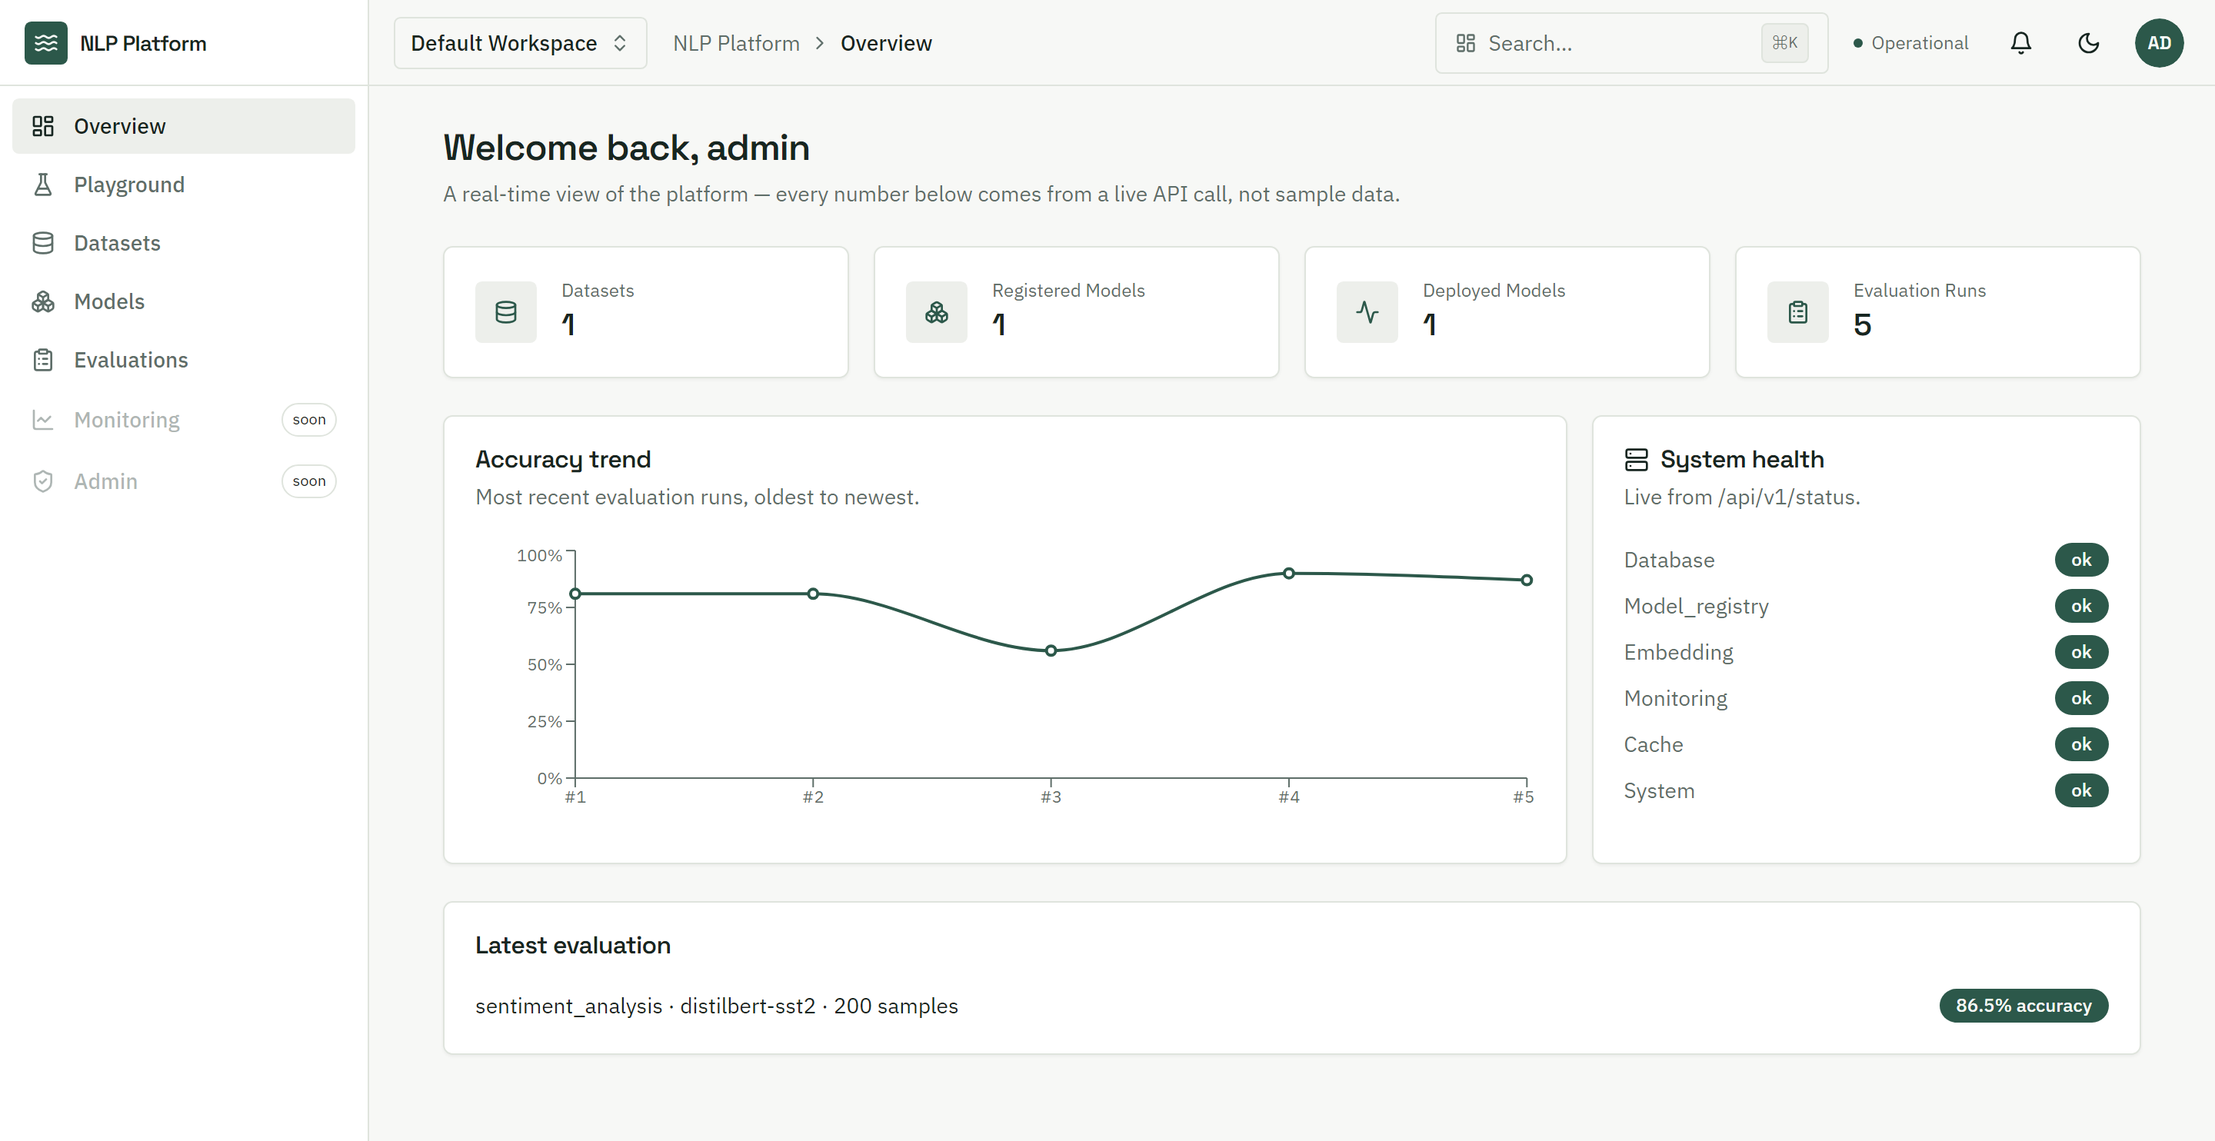
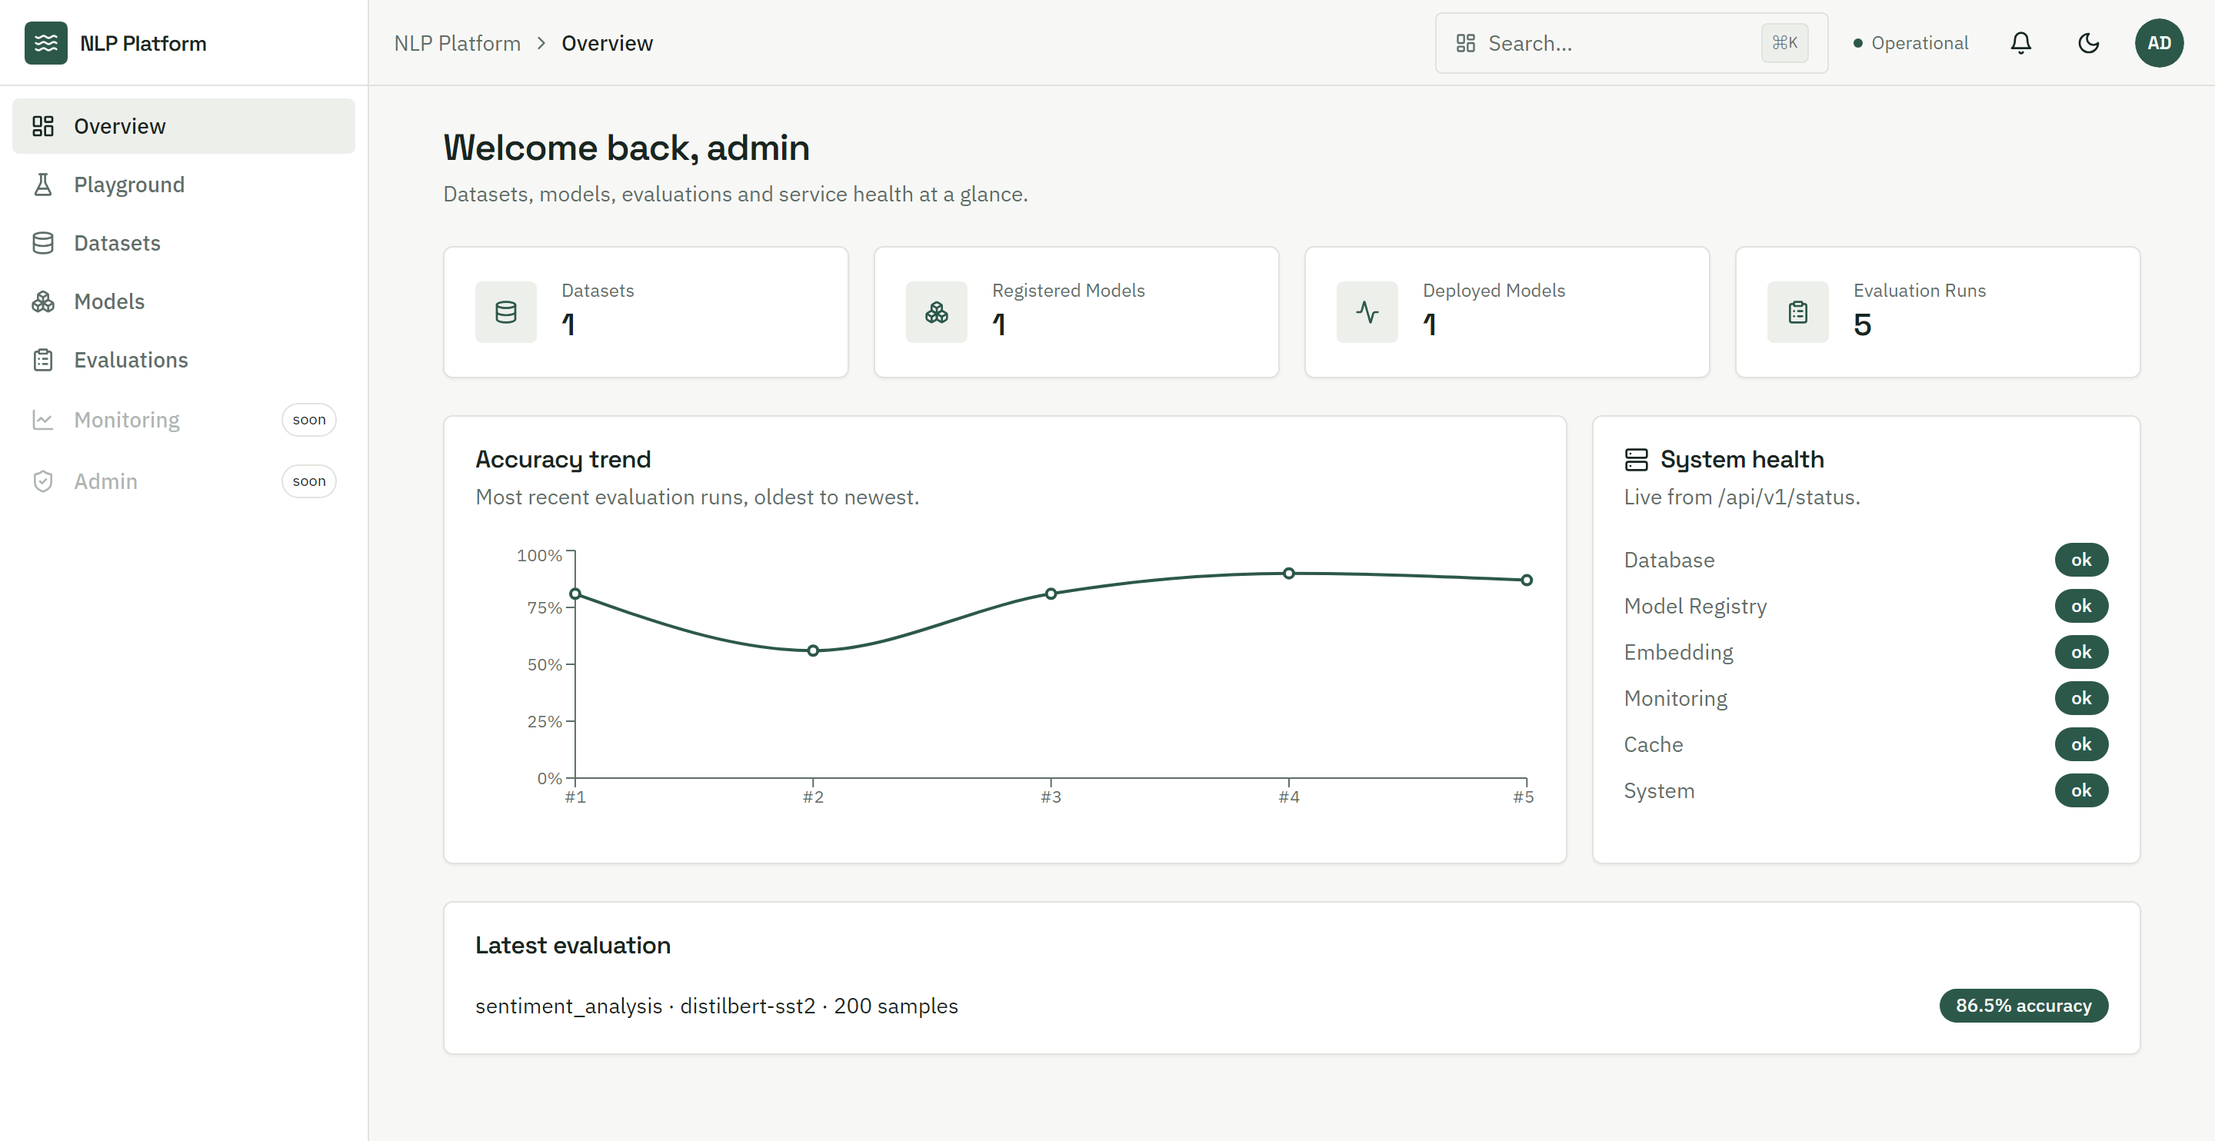
docs: README with measured results, screenshots and error analysis; UI polish
- README results tables generated from reports/ and benchmarks/, error
  analysis highlights, screenshot gallery captured from the live stack
- Inference latency excludes first-use model loading
- Evaluations: readable eval-set names, calibration chart legend
- Dashboard: readable health-check names; removed the dead workspace
  selector
- scripts/seed_demo.py fills a fresh instance through the public API

diff --git a/frontend/src/pages/EvaluationsPage.tsx b/frontend/src/pages/EvaluationsPage.tsx
@@ -25,9 +25,14 @@ const EVALUABLE_TASKS: NLPTask[] = [
 ];
 
 const BUILTIN_SETS = {
-  challenge_set: "Challenge set — 48 hard cases (negation, sarcasm)",
-  sst2_validation: "SST-2 validation — 872 sentences",
+  challenge_set: "Challenge set (48 hard cases)",
+  sst2_validation: "SST-2 validation (872)",
 } as const;
+
+export function evalSetLabel(evalSet: string): string {
+  if (evalSet in BUILTIN_SETS) return BUILTIN_SETS[evalSet as keyof typeof BUILTIN_SETS];
+  return evalSet.startsWith("dataset:") ? `Dataset: ${evalSet.slice("dataset:".length)}` : evalSet;
+}
 
 export function EvaluationsPage() {
   const [source, setSource] = useState<string>("challenge_set");
@@ -145,7 +150,7 @@ export function EvaluationsPage() {
                       </Link>
                     </TableCell>
                     <TableCell className="font-mono text-xs text-muted-foreground">{run.model_name}</TableCell>
-                    <TableCell className="text-xs">{run.eval_set}</TableCell>
+                    <TableCell className="text-xs">{evalSetLabel(run.eval_set)}</TableCell>
                     <TableCell>
                       <Badge variant={run.accuracy >= 0.8 ? "default" : run.accuracy >= 0.6 ? "secondary" : "destructive"}>
                         {(run.accuracy * 100).toFixed(1)}%

diff --git a/frontend/src/pages/EvaluationDetailPage.tsx b/frontend/src/pages/EvaluationDetailPage.tsx
@@ -1,6 +1,6 @@
 import { Fragment } from "react";
 import { useParams } from "react-router-dom";
-import { Bar, BarChart, CartesianGrid, ResponsiveContainer, Tooltip, XAxis, YAxis } from "recharts";
+import { Bar, BarChart, CartesianGrid, Legend, ResponsiveContainer, Tooltip, XAxis, YAxis } from "recharts";
 import { Download, FileText } from "lucide-react";
 import { Button } from "@/components/ui/button";
 import { Badge } from "@/components/ui/badge";
@@ -146,6 +146,7 @@ export function EvaluationDetailPage() {
                   <XAxis dataKey="bucket" tick={{ fontSize: 10 }} stroke="hsl(var(--muted-foreground))" />
                   <YAxis tick={{ fontSize: 11 }} unit="%" stroke="hsl(var(--muted-foreground))" />
                   <Tooltip contentStyle={{ background: "hsl(var(--popover))", border: "1px solid hsl(var(--border))", fontSize: 12 }} />
+                  <Legend iconType="square" iconSize={10} wrapperStyle={{ fontSize: 11 }} />
                   <Bar dataKey="confidence" fill="hsl(var(--muted-foreground))" radius={[3, 3, 0, 0]} name="Avg confidence" />
                   <Bar dataKey="accuracy" fill="hsl(var(--primary))" radius={[3, 3, 0, 0]} name="Actual accuracy" />
                 </BarChart>

diff --git a/frontend/src/pages/DashboardPage.tsx b/frontend/src/pages/DashboardPage.tsx
@@ -73,7 +73,7 @@ export function DashboardPage() {
           Welcome back{user?.username ? `, ${user.username}` : ""}
         </h1>
         <p className="mt-1 text-sm text-muted-foreground">
-          A real-time view of the platform — every number below comes from a live API call, not sample data.
+          Datasets, models, evaluations and service health at a glance.
         </p>
       </div>
 
@@ -151,7 +151,7 @@ export function DashboardPage() {
             ) : (
               Object.entries(status.data?.checks ?? {}).map(([name, check]) => (
                 <div key={name} className="flex items-center justify-between text-sm">
-                  <span className="capitalize text-muted-foreground">{name}</span>
+                  <span className="capitalize text-muted-foreground">{name.replace(/_/g, " ")}</span>
                   <Badge variant={check.status === "ok" ? "default" : check.status === "not_implemented" ? "outline" : "destructive"}>
                     {check.status}
                   </Badge>

diff --git a/frontend/src/components/layout/TopNav.tsx b/frontend/src/components/layout/TopNav.tsx
@@ -3,14 +3,12 @@ import { GlobalSearchTrigger } from "@/components/layout/CommandPalette";
 import { SystemStatus } from "@/components/layout/SystemStatus";
 import { NotificationCenter } from "@/components/layout/NotificationCenter";
 import { ThemeToggle } from "@/components/layout/ThemeToggle";
-import { WorkspaceSelector } from "@/components/layout/WorkspaceSelector";
 import { UserMenu } from "@/components/layout/UserMenu";
 
 export function TopNav() {
   return (
     <header className="flex h-14 items-center justify-between gap-4 border-b border-border bg-background px-4">
       <div className="flex items-center gap-4">
-        <WorkspaceSelector />
         <Breadcrumbs />
       </div>
 

diff --git a/scripts/seed_demo.py b/scripts/seed_demo.py
@@ -1,0 +1,92 @@
+"""
+Populate a running instance with demo content through the public API:
+evaluation runs (served model vs lexicon baseline, on the challenge set and
+SST-2 validation), a registered + approved + deployed model, and an uploaded
+dataset evaluated by the served model.
+
+    uvicorn backend.main:app --port 8000
+    python scripts/seed_demo.py
+
+Uses the dev-seeded admin account by default.
+"""
+
+import argparse
+import csv
+import io
+
+import httpx
+
+
+def main() -> None:
+    parser = argparse.ArgumentParser()
+    parser.add_argument("--base-url", default="http://127.0.0.1:8000/api/v1")
+    parser.add_argument("--username", default="admin")
+    parser.add_argument("--password", default="ChangeMe123!")
+    parser.add_argument("--dataset-rows", type=int, default=200)
+    args = parser.parse_args()
+
+    login = httpx.post(f"{args.base_url}/auth/login", json={"username": args.username, "password": args.password})
+    login.raise_for_status()
+    api = httpx.Client(
+        base_url=args.base_url,
+        headers={"Authorization": f"Bearer {login.json()['access_token']}"},
+        timeout=600,
+    )
+
+    def post(path: str, **kwargs) -> dict:
+        response = api.post(path, **kwargs)
+        response.raise_for_status()
+        return response.json()
+
+    runs = {}
+    for model in ("lexicon_baseline", "served"):
+        for eval_set in ("challenge_set", "sst2_validation"):
+            run = post("/evaluation/run", json={"task": "sentiment_analysis", "model": model, "eval_set": eval_set})
+            runs[(model, eval_set)] = run
+            print(f"eval  {run['model_name']:<22} {eval_set:<16} acc={run['accuracy']:.4f} ece={run.get('ece')}")
+
+    served = runs[("served", "sst2_validation")]
+    entry = post(
+        "/models",
+        json={
+            "name": served["model_name"],
+            "task": "sentiment_analysis",
+            "architecture": "distilbert",
+            "version": "1.0.0",
+            "model_name_or_path": served["model_name"],
+            "evaluation_run_id": served["run_id"],
+            "notes": f"SST-2 validation accuracy {served['accuracy']:.2%}.",
+        },
+    )
+    post(f"/models/{entry['id']}/approve")
+    post(f"/models/{entry['id']}/promote", json={"stage": "production"})
+    post(f"/models/{entry['id']}/deploy")
+    post(f"/models/{entry['id']}/set-champion")
+    print(f"model {entry['name']} registered -> approved -> production -> deployed -> champion")
+
+    from datasets import load_dataset
+
+    split = load_dataset("stanfordnlp/sst2", split="validation").shuffle(seed=7).select(range(args.dataset_rows))
+    names = split.features["label"].names
+    buffer = io.StringIO()
+    writer = csv.writer(buffer)
+    writer.writerow(["text", "label"])
+    for row in split:
+        writer.writerow([row["sentence"].strip(), names[row["label"]].upper()])
+
+    dataset = post(
+        "/datasets",
+        json={
+            "name": "movie-reviews-sample",
+            "task": "sentiment_analysis",
+            "description": f"{args.dataset_rows} sentences sampled from SST-2 validation",
+            "label_set": ["NEGATIVE", "POSITIVE"],
+        },
+    )
+    post(f"/datasets/{dataset['id']}/upload", files={"file": ("movie_reviews.csv", buffer.getvalue(), "text/csv")})
+    run = post("/evaluation/run", json={"task": "sentiment_analysis", "dataset_id": dataset["id"]})
+    print(f"data  {dataset['name']} ({args.dataset_rows} rows) acc={run['accuracy']:.4f}")
+
+
+if __name__ == "__main__":
+    main()

diff --git a/backend/services/inference_service.py b/backend/services/inference_service.py
@@ -41,6 +41,9 @@ class InferenceService(BaseService):
         plugin = get_task_plugin(task)
         resolved_name = model_name or plugin.default_model_name
         model = model_factory.get_model(plugin.default_architecture, resolved_name, task=task)
+        # Load (or download) weights before any timer starts: reported latency
+        # and the metrics registry should reflect inference, not a one-off load.
+        model.load()
         return model, display_model_name(resolved_name)
 
     def _timed(self, task: NLPTask, model_name: str, fn):

diff --git a/scripts/capture_screenshots.py b/scripts/capture_screenshots.py
@@ -85,7 +85,7 @@ def main() -> None:
         pick_task(page, "Toxicity Detection")
         page.fill("textarea", "Shut up, you worthless idiot. Nobody wants you here.")
         page.get_by_role("button", name="Run prediction").click()
-        page.wait_for_selector("text=multi-label", timeout=120_000)
+        page.wait_for_selector("text=every label above 50%", timeout=120_000)
         page.wait_for_timeout(600)
         snap(page, "playground-toxicity")
 

diff --git a/README.md b/README.md
@@ -2,9 +2,9 @@
 
 A full-stack platform for serving, evaluating and explaining transformer NLP models.
 It serves 8 tasks with real Hugging Face models, including a DistilBERT sentiment model
-fine-tuned here on SST-2. Every prediction can be explained with Integrated Gradients,
-and every model is scored against a baseline on held-out data, all behind an
-authenticated, role-based API with a React UI.
+fine-tuned here on SST-2. Classifier predictions can be explained word by word with
+Integrated Gradients, and any single-label model can be scored on held-out or uploaded
+data, all behind an authenticated, role-based API with a React UI.
 
 ![Playground: prediction with Integrated Gradients explanation](docs/images/playground-explain.png)
 
@@ -27,14 +27,50 @@ Sources, licenses and known failure modes for each model are in [docs/model-card
 
 **Sentiment, SST-2 validation (872 sentences) and the 48-sentence challenge set** (negation, sarcasm, mixed sentiment):
 
-RESULTS_TABLE
+| System | SST-2 accuracy | SST-2 macro-F1 | Challenge set accuracy |
+|---|---|---|---|
+| Lexicon baseline (bag-of-words + negation) | 55.73% | 0.444 | 81.25% |
+| DistilBERT, public SST-2 checkpoint | 91.06% | 0.910 | 87.50% |
+| **DistilBERT, fine-tuned here** | 90.37% | 0.903 | 81.25% |
+
+Our model also has ROC-AUC 0.970 and calibration error (ECE) 0.045 on SST-2. It was trained
+for one epoch on the full 67k-sentence train split, on a laptop CPU in 92 minutes.
+
+**What the numbers say:**
+- The lexicon baseline is near chance on real text (55.7%), and both transformers clear 90%.
+- The challenge set flatters the baseline because it was written alongside the lexicon's
+  word lists. It's a diagnostic, not a benchmark.
+- **Sarcasm is the shared blind spot.** "Love how it stopped working after just two days.
+  Fantastic." is POSITIVE at 0.99 confidence for both transformers. Per-sentence breakdown:
+  [reports/sentiment_error_analysis.md](reports/sentiment_error_analysis.md).
 
 **CPU inference, FP32 vs dynamic INT8 quantization:**
 
-BENCHMARK_TABLE
+| Variant | Size | p50 latency, batch 1 | Throughput, batch 32 | SST-2 accuracy |
+|---|---|---|---|---|
+| fp32 | 268 MB | 18.5 ms | 42 texts/s | 90.37% |
+| int8-dynamic | 139 MB | 23.7 ms | 123 texts/s | 88.99% |
+
+INT8 halves the model and roughly triples batch throughput for −1.4 accuracy points, but it's
+*slower* for single texts, because quantizing activations on the fly costs more than it saves
+on tiny inputs. Use it for batch jobs and keep FP32 for interactive latency. Medians of 5
+alternating rounds on an Intel Core Ultra 9 185H laptop.
+
+**Served end to end** (`scripts/load_test.py`, one uvicorn worker): `POST /predict` sentiment at
+**17.8 ms p50 / 55 req/s**. The first load test measured 165 ms because of a `gc.collect()`
+on every model lookup. Finding and fixing that is written up in the
+[testing guide](docs/testing-and-qa-guide.md#load-testing-scriptsload_testpy).
 
 Reproduce with `python scripts/evaluate_sentiment.py` and `python scripts/benchmark_inference.py`.
 Raw numbers are in [reports/](reports/) and [benchmarks/](benchmarks/).
+
+## Screenshots
+
+| Evaluation run: confusion matrix, calibration, misclassified samples | Multi-label toxicity |
+|---|---|
+| ![Evaluation detail](docs/images/evaluation-detail.png) | ![Toxicity](docs/images/playground-toxicity.png) |
+| **Zero-shot with labels chosen per request** | **Model vs baseline across datasets** |
+| ![Zero-shot](docs/images/playground-zero-shot.png) | ![Evaluations](docs/images/evaluations.png) |
 
 ## Architecture
 
@@ -75,8 +111,11 @@ Details: [docs/architecture-guide.md](docs/architecture-guide.md).
 - **Supply chain**: `pip-audit` reports 0 known vulnerabilities after migrating
   python-jose → PyJWT and upgrading FastAPI/Starlette; frontend production dependencies
   report 0 too.
-- **Tests that don't lie**: TEST_COUNTS. Unit tests never touch the network (an autouse
-  fake model); `pytest -m integration` checks real checkpoints on unambiguous inputs.
+- **Tests at three levels**: 175 backend unit/API tests that never touch the network (an
+  autouse fake model), 14 integration tests on the real checkpoints, and 33 frontend tests,
+  including one that mounts the whole app shell. Driving the real UI with Playwright found
+  two bugs no unit test had caught: a provider-wiring crash after login, and mislabelled
+  calibration buckets. Both are fixed and covered by tests now.
 
 ## Quickstart
 
@@ -93,14 +132,15 @@ cd frontend && npm install && npm run dev                # http://localhost:5173
 ```
 
 In development a bootstrap account is seeded: `admin` / `ChangeMe123!`. It is never
-created in production. Models download on first use (~2.5GB for all eight).
+created in production. Models download on first use (~2.5GB for all eight). To fill the UI
+with real evaluation runs, a deployed model and a dataset, run `python scripts/seed_demo.py`.
 
 Or with Docker: `docker compose -f docker/docker-compose.yml --profile prod up --build`.
 
 ## Train, evaluate, benchmark
 
 ```bash
-python scripts/train_sentiment.py          # fine-tune DistilBERT on SST-2 (TRAIN_TIME on a 16-thread CPU)
+python scripts/train_sentiment.py          # fine-tune DistilBERT on SST-2 (92 min on a laptop CPU, minutes on a GPU)
 python scripts/evaluate_sentiment.py       # baseline vs public checkpoint vs ours
 python scripts/benchmark_inference.py      # latency / throughput / accuracy, FP32 vs INT8
 python scripts/load_test.py --base-url http://127.0.0.1:8000
@@ -162,8 +202,8 @@ docker/               Dockerfiles + Compose
 ## Limitations and roadmap
 
 - Only the sentiment model is fine-tuned here; the other tasks serve public checkpoints.
-- CPU-first: no GPU serving, no dynamic request batching across clients, and no ONNX
-  Runtime path yet.
+- CPU-first: no GPU serving, no server-side micro-batching across clients, no
+  length-bucketed batching (padding waste caps batch-32 FP32 gains), and no ONNX Runtime path yet.
 - Vector indices are in-memory per process (pgvector is the next step).
 - No MFA, password reset or email verification.
 - No distributed job queue, scheduled re-evaluation, tracing or Prometheus endpoint.

diff --git a/CHANGELOG.md b/CHANGELOG.md
@@ -29,7 +29,9 @@ Follows [Keep a Changelog](https://keepachangelog.com/en/1.1.0/) and
   checks, Docker builds; tag-triggered releases.
 - Opt-in integration suite (`pytest -m integration`) against every real checkpoint.
 - Playground batch tab, zero-shot label input, similarity pair input, per-task examples.
-- `docs/model-cards.md`.
+- `docs/model-cards.md`, with measured failure modes (toxicity identity-term bias,
+  language ID on one-word inputs).
+- `scripts/seed_demo.py` and `scripts/capture_screenshots.py` (Playwright).
 
 ### Changed
 - `NLPTask` lists only tasks that are actually served (removed hate speech, fake news,
@@ -38,10 +40,21 @@ Follows [Keep a Changelog](https://keepachangelog.com/en/1.1.0/) and
 - JWT library: python-jose → PyJWT; decoding now requires `exp` and `sub`.
 - FastAPI 0.115 → 0.162, Starlette 0.46 → 1.9, python-multipart → 0.0.32.
 - React Router 6 → 7, Vite 5 → 8, Vitest 2 → 5 (frontend build 15s → 2.5s).
+- Removed the non-functional workspace selector from the top nav.
 - Docker image ships CPU PyTorch, honours `$PORT`, runs one worker by default;
   Kubernetes memory sized for resident models.
 
 ### Fixed
+- **The app shell crashed for every signed-in user**: a Tooltip in the top nav was rendered
+  outside any `TooltipProvider`. Found by driving the UI with Playwright.
+- **Calibration buckets were mislabelled** and most samples went uncounted (sklearn's
+  `calibration_curve` drops empty bins, but its output was zipped onto every bin edge).
+  Every evaluation now also reports ECE.
+- **`/predict` spent ~150 ms per request in `gc.collect()`**, called on every model lookup.
+  p50 went from 165 ms to 17.8 ms; found by load testing.
+- Reported latency included first-use model loading.
+- Zero-shot scored label hypotheses one forward pass at a time (now batched, 3.9× faster).
+- `.env.example` CORS origins didn't include the Vite dev server.
 - Evaluation run ids are validated as UUIDs before they touch the filesystem
   (path traversal via `..\` on Windows).
 - Evaluation history was sorted by UUID instead of by time.

diff --git a/docs/testing-and-qa-guide.md b/docs/testing-and-qa-guide.md
@@ -4,9 +4,9 @@
 
 | Suite | Command | Count | Runtime | Network |
 |---|---|---|---|---|
-| Backend unit + API | `pytest` | BACKEND_UNIT | ~2 min | none |
-| Backend integration (real models) | `pytest -m integration` | BACKEND_INTEG | ~INTEG_TIME (after download) | first run downloads ~2.5GB |
-| Frontend | `cd frontend && npm test` | FRONTEND_COUNT | ~10 s | none |
+| Backend unit + API | `pytest` | 175 | ~2 min | none |
+| Backend integration (real models) | `pytest -m integration` | 14 | ~30 s (after download) | first run downloads ~2.5GB |
+| Frontend | `cd frontend && npm test` | 33 | ~10 s | none |
 | Lint | `ruff check backend tests scripts`, `npm run lint` | — | seconds | none |
 
 All of them run in CI (`.github/workflows/ci.yml`); integration runs on pushes to `main`.
